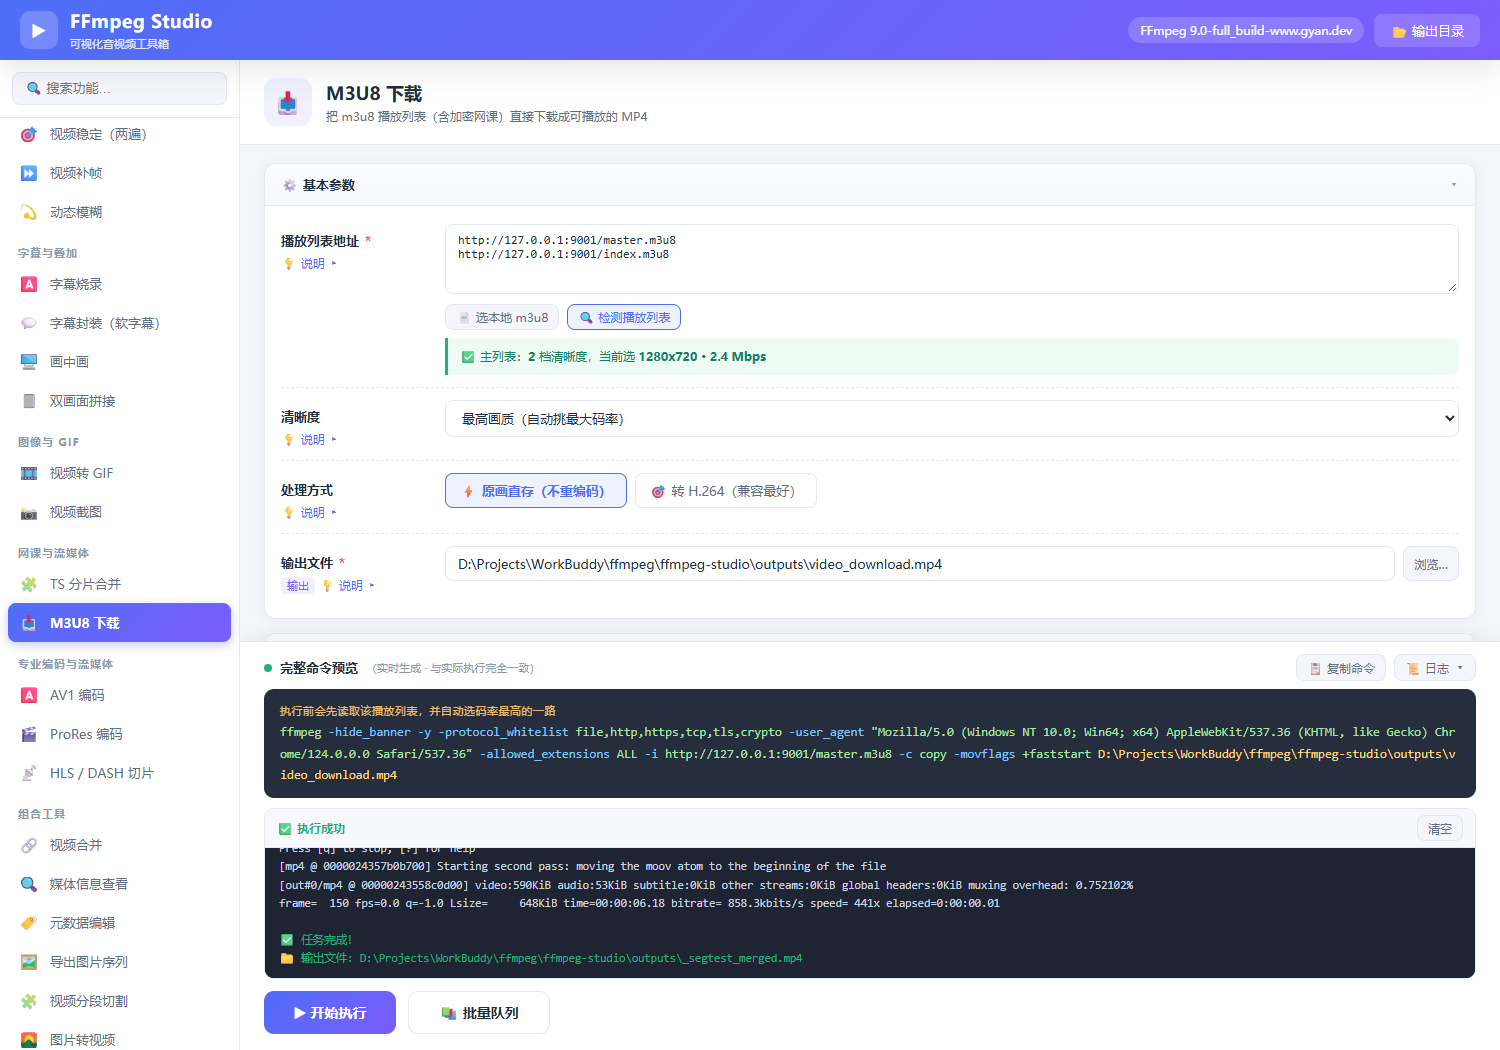
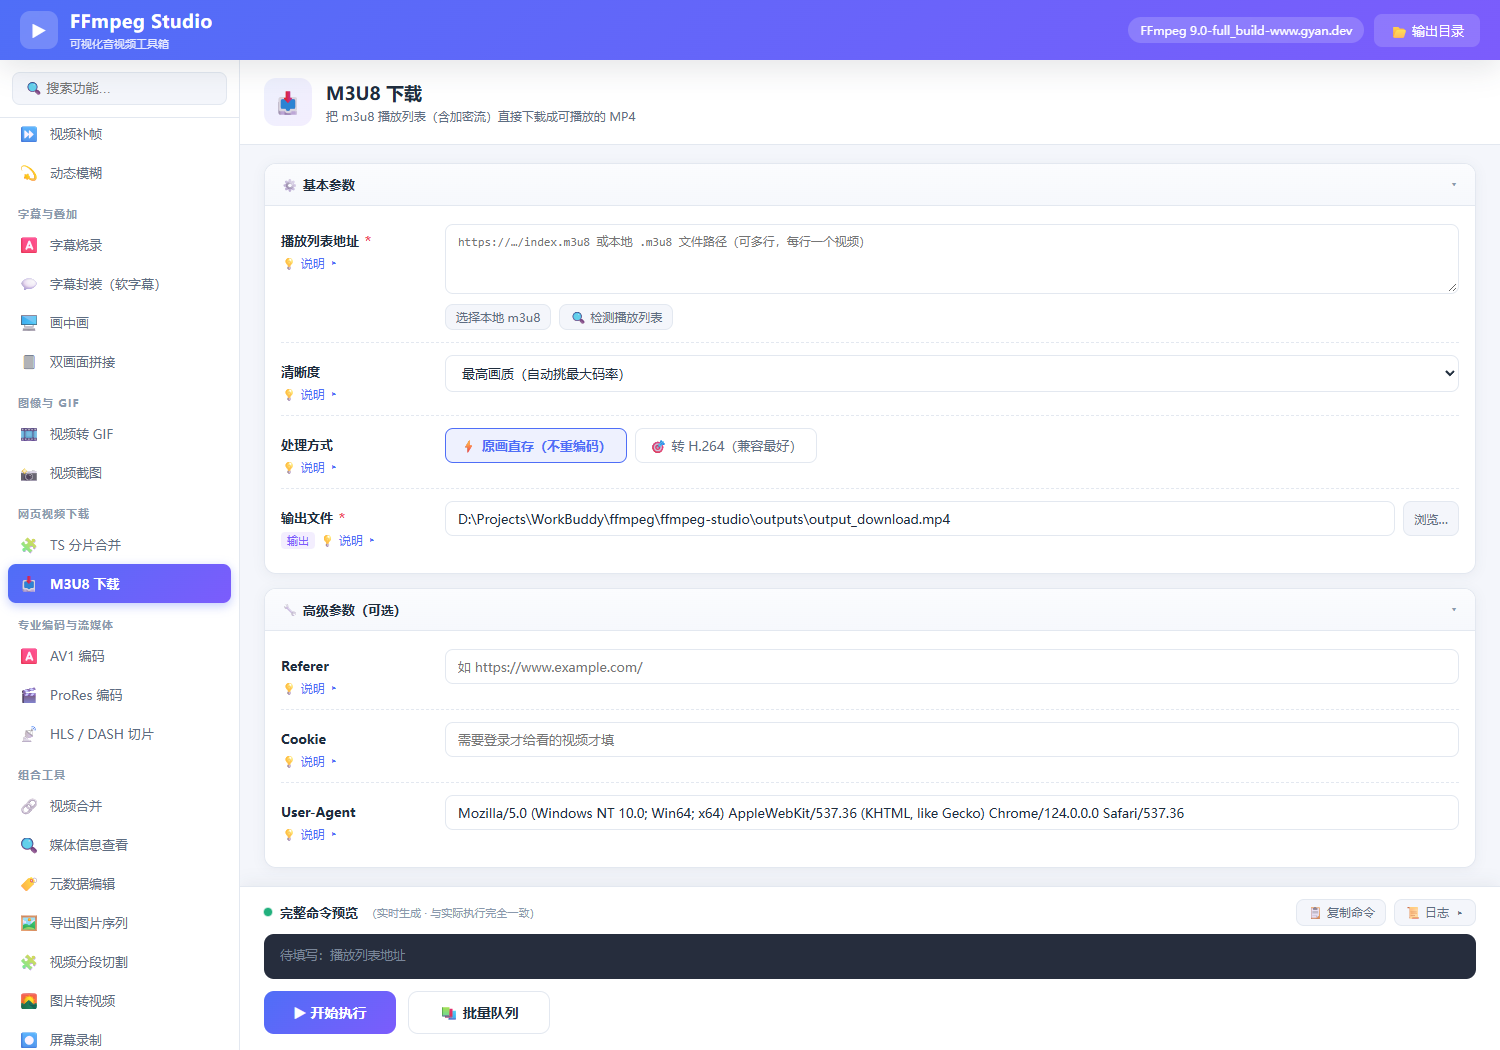
refactor: 功能分组与说明改为通用说法，不再限定网课场景
- 分组「网课与流媒体」→「网页视频下载」
- M3U8 下载 / TS 分片合并的参数说明、占位提示、README 全部改为中性表述
- Referer/Cookie 说明覆盖视频站、番剧、直播回放等所有 HLS 站点

diff --git a/ffmpeg-studio/static/app.js b/ffmpeg-studio/static/app.js
@@ -370,9 +370,9 @@ const FEATURES = [
     return { argv: a };
   }
 },
-/* ==================== 网课与流媒体 ==================== */
+/* ==================== 网页视频下载 ==================== */
 {
-  id: "tsmerge", group: "网课与流媒体", icon: "🧩", name: "TS 分片合并",
+  id: "tsmerge", group: "网页视频下载", icon: "🧩", name: "TS 分片合并",
   desc: "把 001.ts、002.ts… 上百个分片按顺序拼成一个完整 MP4",
   tag: "_merged", outExt: "mp4",
   params: [
@@ -404,13 +404,13 @@ const FEATURES = [
   }
 },
 {
-  id: "m3u8dl", group: "网课与流媒体", icon: "📥", name: "M3U8 下载",
-  desc: "把 m3u8 播放列表（含加密网课）直接下载成可播放的 MP4",
+  id: "m3u8dl", group: "网页视频下载", icon: "📥", name: "M3U8 下载",
+  desc: "把 m3u8 播放列表（含加密流）直接下载成可播放的 MP4",
   tag: "_download", outExt: "mp4",
   params: [
     { key: "url", label: "播放列表地址", type: "url", required: true,
-      placeholder: "https://…/index.m3u8 或本地 .m3u8 文件路径（可多行，每行一集）",
-      help: "m3u8 是一个<b>文本清单</b>，里面按顺序记录了成百上千个 .ts 分片地址。填进来就相当于让 FFmpeg 照着清单把分片全部下载、按序拼接、封装成 MP4。<br><br>链接可以粘贴多行（每行一集），会依次下载并自动加序号；也支持直接选<b>本地的 .m3u8 文件</b>（配合「TS 分片合并」用）。" },
+      placeholder: "https://…/index.m3u8 或本地 .m3u8 文件路径（可多行，每行一个视频）",
+      help: "m3u8 是一个<b>文本清单</b>，里面按顺序记录了成百上千个 .ts 分片地址。填进来就相当于让 FFmpeg 照着清单把分片全部下载、按序拼接、封装成 MP4。<br><br>链接可以粘贴多行（每行一个视频），会依次下载并自动加序号；也支持直接选<b>本地的 .m3u8 文件</b>（配合「TS 分片合并」用）。" },
     { key: "quality", label: "清晰度", type: "select", default: "highest",
       options: [
         { value: "highest", label: "最高画质（自动挑最大码率）" },
@@ -422,13 +422,13 @@ const FEATURES = [
         { value: "copy", label: "⚡ 原画直存（不重编码）" },
         { value: "reencode", label: "🎯 转 H.264（兼容最好）" }
       ],
-      help: "<b>原画直存</b>：分片里的码流直接搬进 MP4，速度只受网速限制，画质无损；<b>转 H.264</b>：某些课程用 HEVC 编码，部分播放器、剪辑软件、旧设备不认，转成 H.264 后到处能播，代价是要重编码、耗时更长。" },
+      help: "<b>原画直存</b>：分片里的码流直接搬进 MP4，速度只受网速限制，画质无损；<b>转 H.264</b>：有些站点用 HEVC / H.265 编码，部分播放器、剪辑软件、旧设备不认，转成 H.264 后到处能播，代价是要重编码、耗时更长。" },
     { key: "referer", label: "Referer", type: "text", advanced: true,
       placeholder: "如 https://www.example.com/",
-      help: "网课平台常见的<b>防盗链</b>手段：只允许从自己网站发起的请求读取分片。<b>直接下载报 403 / 404 时先填这个</b>——打开课程页，把浏览器地址栏的站点根地址填进来即可。" },
+      help: "很多网站用<b>防盗链</b>保护视频：只允许从自己站点的页面发起的请求读取分片。<b>直接下载报 403 时先填这个</b>——打开播放该视频的网页，把浏览器地址栏里的<b>协议 + 域名</b>（如 <code>https://www.example.com/</code>）填进来即可。" },
     { key: "cookie", label: "Cookie", type: "text", advanced: true,
-      placeholder: "需要登录才给看的课程才填",
-      help: "要登录才能看的课程，把浏览器的 Cookie 整段粘贴进来（F12 → 网络 → 任意请求 → 请求头 → Cookie）。填了就能带上你的登录态去取分片。<b>只在自己付费购买的课程上使用。</b>" },
+      placeholder: "需要登录才给看的视频才填",
+      help: "需要登录才能看的视频，把浏览器的 Cookie 整段粘贴进来（F12 → 网络 → 任意请求 → 请求头 → Cookie）。填了就能带上你的登录态去取分片。<b>请只用于你有权访问的内容。</b>" },
     { key: "ua", label: "User-Agent", type: "text", advanced: true, default: DEFAULT_UA,
       help: "伪装成浏览器发出的请求。默认已填 Chrome 的 UA，大多数站点够用；个别平台校验特定的 UA（如手机端），可以改成对应的值。" },
     { key: "output", label: "输出文件", type: "savefile", required: true, flag: "输出",
@@ -1519,7 +1519,7 @@ function highlightCmd(text) {
 }
 
 /* ---------------- 导航渲染 ---------------- */
-const GROUP_ORDER = ["视频处理", "音频处理", "特效与修复", "字幕与叠加", "图像与 GIF", "网课与流媒体", "专业编码与流媒体", "组合工具"];
+const GROUP_ORDER = ["视频处理", "音频处理", "特效与修复", "字幕与叠加", "图像与 GIF", "网页视频下载", "专业编码与流媒体", "组合工具"];
 
 function renderNav(filter = "") {
   const nav = $("#feature-nav");

diff --git a/ffmpeg-studio/app.py b/ffmpeg-studio/app.py
@@ -149,7 +149,7 @@ def api_concat_list():
     return jsonify({"ok": True, "path": list_path, "count": len(files)})
 
 
-# ---------------- 网课 / 流媒体：分片扫描 + 播放列表解析 ----------------
+# ---------------- 网页视频 / HLS：分片扫描 + 播放列表解析 ----------------
 DEFAULT_UA = ("Mozilla/5.0 (Windows NT 10.0; Win64; x64) AppleWebKit/537.36 "
               "(KHTML, like Gecko) Chrome/124.0.0.0 Safari/537.36")
 SEGMENT_EXTS = [".ts", ".m4s", ".m4v", ".mp4", ".flv", ".aac", ".mp3"]
@@ -162,7 +162,7 @@ def _natural_key(name):
 
 def _segments_in(folder):
     """扫描分片目录，返回 (分片列表, m3u8 列表, 主扩展名)。
-    主扩展名自动判定：有 .ts 就用 .ts（网课/直播回放最常见），否则取数量最多的那种。"""
+    主扩展名自动判定：有 .ts 就用 .ts（HLS 分片 / 直播回放最常见），否则取数量最多的那种。"""
     try:
         names = os.listdir(folder)
     except OSError:
